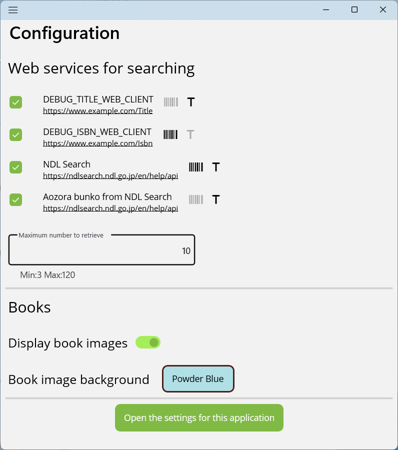
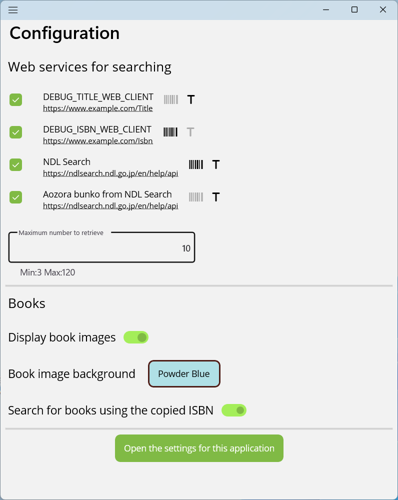
introduced the searc by copied ISBN button

diff --git a/docs/maui/en-US/windows/maui.md b/docs/maui/en-US/windows/maui.md
@@ -32,7 +32,8 @@ Table of contents
       - [3-3-2. Maximum number of results retrieved from each book search service](#3-3-2-maximum-number-of-results-retrieved-from-each-book-search-service)
       - [3-3-3. Whether to show book cover images](#3-3-3-whether-to-show-book-cover-images)
       - [3-3-4. Background color setting for book cover images](#3-3-4-background-color-setting-for-book-cover-images)
-      - [3-3-5. Button to open the app settings](#3-3-5-button-to-open-the-app-settings)
+      - [3-3-5. Whether to Search for books using the copied ISBN](#3-3-5-whether-to-search-for-books-using-the-copied-isbn)
+      - [3-3-6. Button to open the app settings](#3-3-6-button-to-open-the-app-settings)
     - [3-4. Backup and Restore](#3-4-backup-and-restore)
       - [3-4-1. Backup button](#3-4-1-backup-button)
       - [3-4-2. Restore button](#3-4-2-restore-button)
@@ -133,6 +134,10 @@ Clicking ![+ icon](../../common/images/add_32dp_1F1F1F_FILL0_wght400_GRAD0_opsz4
 
 ![Add Sub](./images/resized/01_Records_N050_BooksPageClickPlus.png)
 
+When you copy an ISBN from other apps, **Book Techyo** will display ![search by copied ISBN](../../common/images/content_paste_32dp_000000_FILL0_wght400_GRAD0_opsz40.png) in addition to the above.
+Clicking that will prompt to search using the copied ISBN and display the results.
+Note that the function to search using copied ISBNs can be toggled on and off in the [Configuration](#3-3-configuration).
+
 #### 3-1-1-1. Barcode Scanning
 
 Click ![Barcode Scan](../../common/images/barcode_scanner_32dp_1F1F1F_FILL0_wght400_GRAD0_opsz40.png).
@@ -169,6 +174,13 @@ Enter details and click ![apply](../../common/images/check_32dp_1F1F1F_FILL0_wgh
 - On some PCs, **the Windows Camera app can scan barcodes more easily and smoothly**.  
 
   ![Windows Camera App](./images/resized/13-99.WindowsCameraApp.png)
+
+  When you copy an ISBN from **the Windows Camera app**, **Book Techyo** will display ![search by copied ISBN](../../common/images/content_paste_32dp_000000_FILL0_wght400_GRAD0_opsz40.png).
+  Clicking that will prompt to search using the copied ISBN and display the results.
+
+   ![Retrived ISBN](./images/resized/13-98.WindowsCameraApp_RetrivesIsbn.png)
+
+  Note that the function to search using copied ISBNs can be toggled on and off in the [Configuration](#3-3-configuration).
 
 - Barcode scanning works only when a **camera is available**. If the PC has no camera, or another app is using it, barcode scanning will not work.
 
@@ -327,6 +339,7 @@ The Configuration page contains, from top to bottom:
 - Maximum number of results retrieved from each book search service
 - Whether to show book cover images in listings
 - Background color setting for book cover images
+- Whether to Search for books using the copied ISBN
 - Button to open the app settings
 
 Note that `DEBUG_TITLE_WEB_CLIENT` and `DEBUG_ISBN_WEB_CLIENT` in the image are for the development web client. They will not be displayed in **Book Techyo** obtained from the app store.
@@ -370,7 +383,13 @@ Clicking the button displays the background color selection popup.
 
 ![color chooser](./images/resized/02_Settings_N020_ConfigurationColorChooser.png)
 
-#### 3-3-5. Button to open the app settings
+#### 3-3-5. Whether to Search for books using the copied ISBN
+
+Specify whether to read ISBNs copied from other apps. The default is on, meaning it will read them.
+
+When on, copying an ISBN in other apps will display the [search by copied ISBN](../../common/images/content_paste_32dp_000000_FILL0_wght400_GRAD0_opsz40.png) in the list page. Clicking that will prompt to search using the copied ISBN and display the results.
+
+#### 3-3-6. Button to open the app settings
 
 Click to open the app settings page.
 
